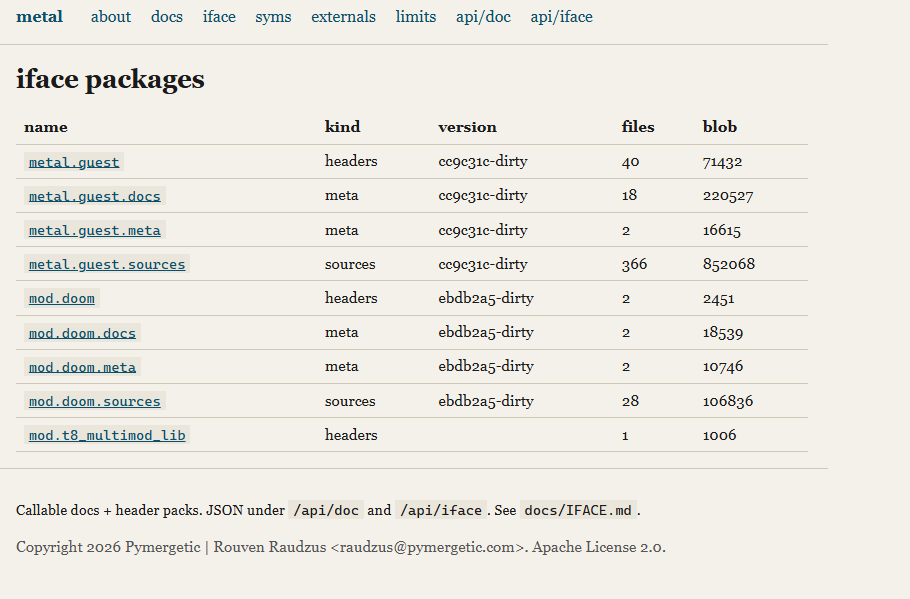
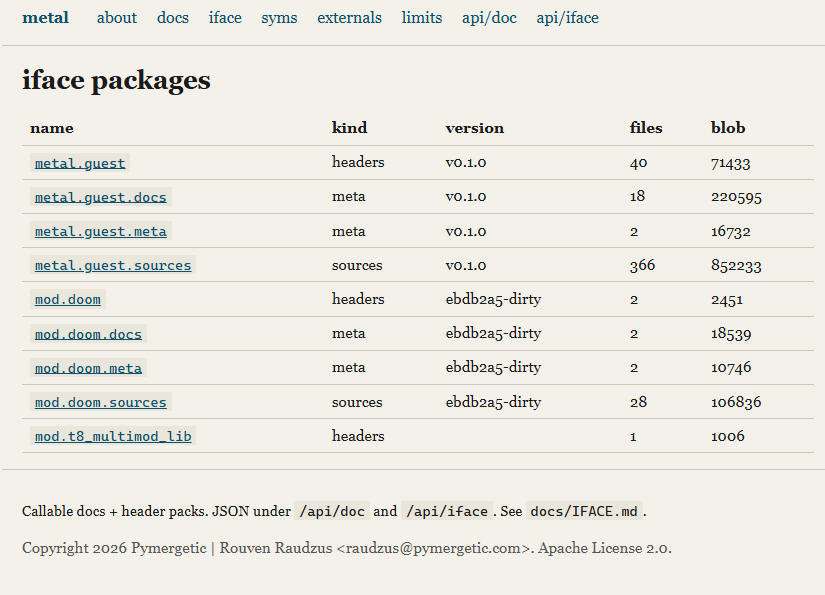
Update iface-packages screenshot and enhance README documentation
- Replaced the iface-packages screenshot with an updated version to reflect recent changes.
- Revised the README to provide clearer descriptions of the iface-packages, including versioning details for `metal.guest` and associated modules.

These updates improve the clarity and accuracy of the documentation related to the iface module in the Metal framework.

diff --git a/screenshots/README.md b/screenshots/README.md
@@ -14,7 +14,7 @@
 | `thinkpad-doom.jpg` | ThinkPad T42p — Doom tabbed on iron |
 | `pxe-http-sigs.png` | `upload-pxe` — HTTP mirror with `doom.*.aot` / `.wasm` + `.sig` |
 | `menuconfig.png` | Host — `./scripts/menuconfig` (Build + `pymergetic.metal` menus) |
-| `iface-packages.png` | QEMU HTTP — `/iface` pack catalog (`metal.guest` + ESP sidecars + `mod.t8_multimod_lib`) |
+| `iface-packages.png` | QEMU HTTP — `/iface` pack catalog (`metal.guest*` @ `v0.1.0`, ESP `mod.doom*`, `mod.t8_multimod_lib`) |
 | `iface-headers.png` | QEMU HTTP — `/iface/pkg/metal.guest` (headers pack file list) |
 | `iface-sources.png` | QEMU HTTP — `/iface/pkg/metal.guest.sources` (sources pack; Kconfig on) |
 | `iface-source-view.png` | QEMU HTTP — highlighted source view (`lz4.c` in `metal.guest.sources`) |
